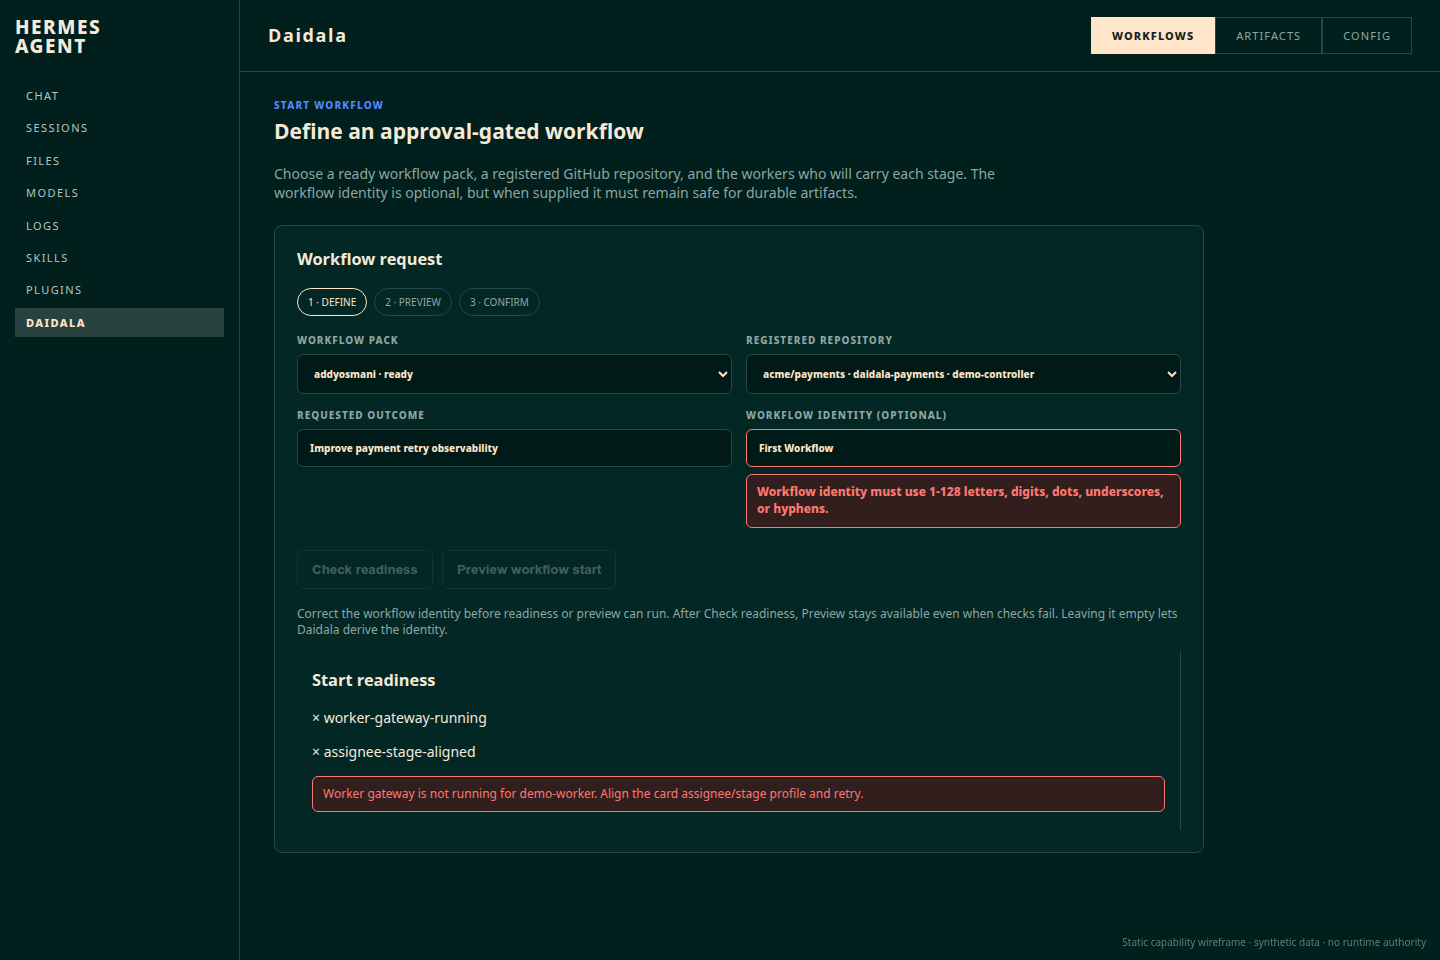
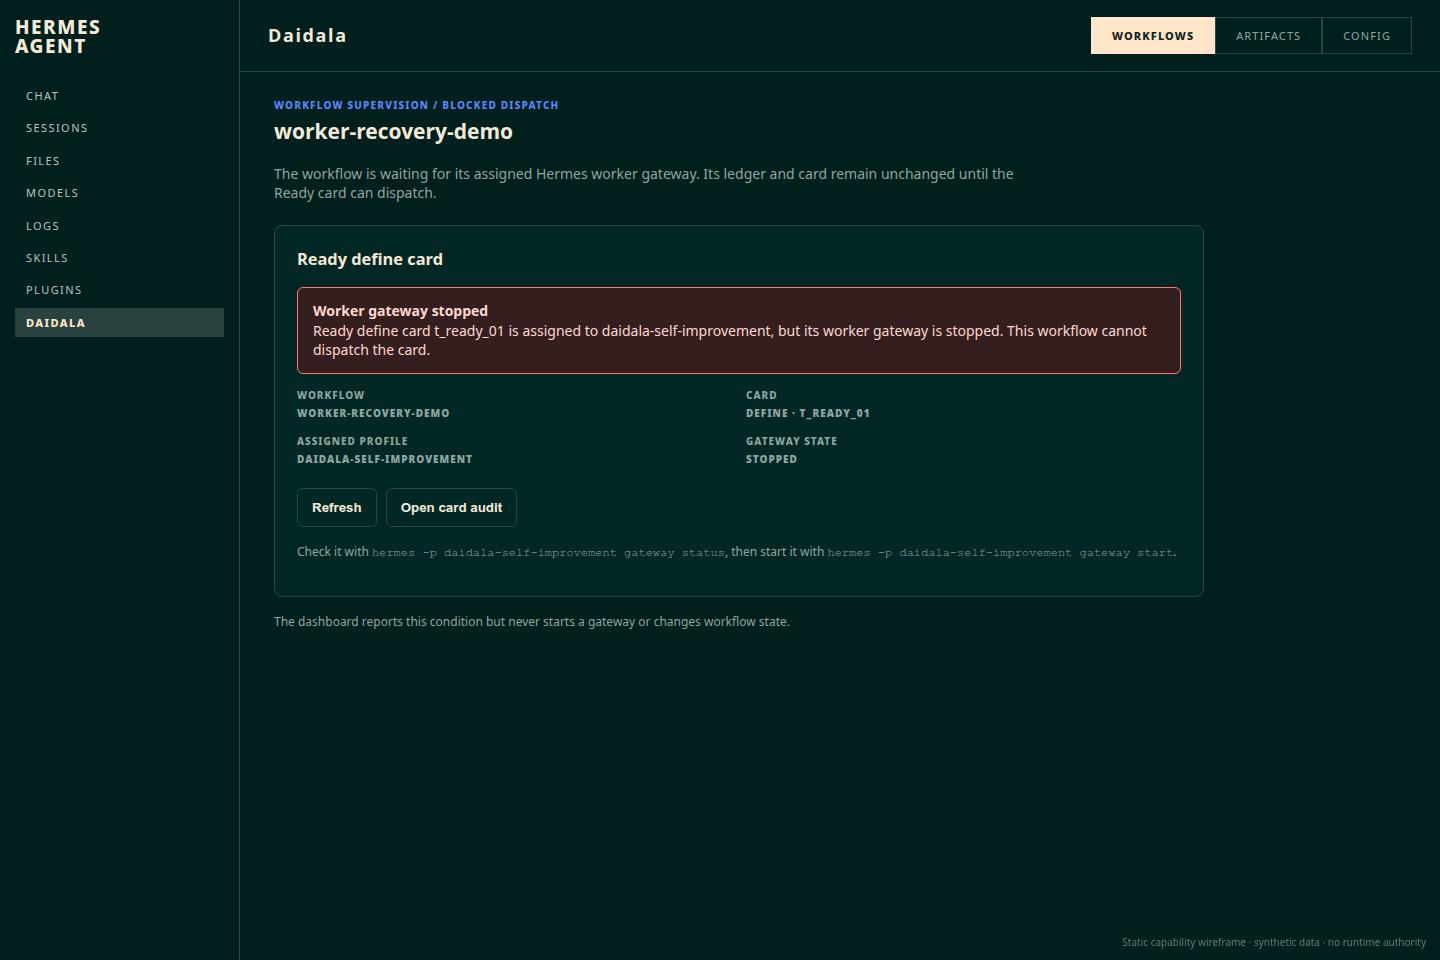
feat(dashboard): flag stalled worker cards
- Let operators see why a Ready workflow card cannot progress when its assigned worker gateway is down.
- Keep recovery explicit with the card, profile, gateway state, and safe status/start commands.
- Add the readiness payload, card-local alert, tests, operator docs, and wireframe.

This change turns an otherwise stalled Ready card into an actionable dashboard condition.

Affected files/components:
- dashboard/plugin_api.py
- dashboard/dist/index.js
- tests/test_dashboard_api.py
- tests/test_dashboard_assets.py
- docs/07-runbook.md
- docs/product/capabilities/CAP-0003-operator-dashboard.md
- docs/product/wireframes/generate.mjs
- docs/product/wireframes/html/CAP-0003-operator-dashboard.html
- docs/product/wireframes/exports/CAP-0003-operator-dashboard.png
- docs/changes/archive/CHG-0020-worker-gateway-readiness.md

Changed region(s): [[0.1875, 0.25, 0.8438, 0.5938], [0.1875, 0.5625, 0.8125, 0.8438], [0.1875, 0.0938, 0.7188, 0.2188]]

diff --git a/docs/product/wireframes/html/CAP-0003-operator-dashboard.html b/docs/product/wireframes/html/CAP-0003-operator-dashboard.html
@@ -1,4 +1,24 @@
 <!doctype html>
 <html lang="en"><head><meta charset="utf-8"><meta name="viewport" content="width=device-width, initial-scale=1"><title>CAP-0003 — Operator dashboard</title><style>
 :root{color-scheme:dark;--bg:#001f1d;--panel:#032725;--line:#244845;--text:#f4ead8;--muted:#8fa6a1;--cream:#ffe6ca;--amber:#ffc933;--red:#ff786f;--blue:#5688ff}*{box-sizing:border-box}body{margin:0;width:1440px;height:960px;overflow:hidden;background:var(--bg);color:var(--text);font:14px/1.4 Inter,ui-sans-serif,system-ui,sans-serif}.shell{display:grid;grid-template-columns:240px 1fr;height:960px}aside{padding:18px 15px;border-right:1px solid var(--line)}.brand{font-size:19px;font-weight:800;line-height:1;letter-spacing:.08em}nav{display:grid;gap:3px;margin-top:25px}nav div{padding:7px 11px;color:#b8c4c0;font-size:11px;letter-spacing:.13em;text-transform:uppercase}nav .active{background:#29413f;color:var(--cream);font-weight:800}main{min-width:0}header{height:72px;padding:18px 28px;display:flex;align-items:center;justify-content:space-between;border-bottom:1px solid var(--line)}h1,h2,h3,p{margin-top:0}h1{margin:0;font-size:18px;letter-spacing:.09em}.views{display:flex}.view{padding:10px 20px;border:1px solid var(--line);color:var(--muted);text-transform:uppercase;font-size:11px;letter-spacing:.1em}.view.active{color:#102321;background:var(--cream);border-color:var(--cream);font-weight:800}.workspace{padding:26px 34px}.eyebrow{margin-bottom:5px;color:var(--blue);font-size:10px;font-weight:800;letter-spacing:.12em;text-transform:uppercase}.intro{max-width:760px;color:var(--muted)}.wizard{max-width:930px;margin-top:22px;padding:22px;border:1px solid var(--line);border-radius:8px;background:var(--panel)}.steps{display:flex;gap:7px;margin:17px 0}.step{padding:6px 10px;border:1px solid var(--line);border-radius:999px;color:var(--muted);font-size:10px;text-transform:uppercase}.step.active{border-color:var(--cream);color:var(--cream)}.grid{display:grid;grid-template-columns:1fr 1fr;gap:14px}.field{display:block;color:var(--muted);font-size:10px;font-weight:800;letter-spacing:.1em;text-transform:uppercase}input,select{width:100%;margin-top:7px;padding:11px 12px;border:1px solid var(--line);border-radius:6px;background:#001a18;color:var(--cream);font:inherit}.invalid{border-color:var(--red)}.error{margin:7px 0 0;padding:9px 10px;border:1px solid var(--red);border-radius:6px;background:#321e1d;color:var(--red);font-size:12px;text-transform:none;letter-spacing:normal}.actions{display:flex;gap:9px;margin-top:22px}button{padding:11px 14px;border:1px solid var(--line);border-radius:6px;background:transparent;color:var(--text);font-weight:800}button:disabled{opacity:.45;color:var(--muted)}.note{margin-top:17px;color:var(--muted);font-size:12px}.annotation{position:fixed;right:14px;bottom:11px;color:#617b77;font-size:10px}</style></head>
-<body><div class="shell"><aside><div class="brand">HERMES<br>AGENT</div><nav><div>Chat</div><div>Sessions</div><div>Files</div><div>Models</div><div>Logs</div><div>Skills</div><div>Plugins</div><div class="active">Daidala</div></nav></aside><main><header><h1>Daidala</h1><div class="views"><div class="view active">Workflows</div><div class="view">Artifacts</div><div class="view">Config</div></div></header><section class="workspace"><p class="eyebrow">Start workflow</p><h2>Define an approval-gated workflow</h2><p class="intro">Choose a ready workflow pack, a registered GitHub repository, and the workers who will carry each stage. The workflow identity is optional, but when supplied it must remain safe for durable artifacts.</p><section class="wizard"><h3>Workflow request</h3><div class="steps"><span class="step active">1 · Define</span><span class="step">2 · Preview</span><span class="step">3 · Confirm</span></div><div class="grid"><label class="field">Workflow pack<select><option>addyosmani · ready</option></select></label><label class="field">Registered repository<select><option>acme/payments · daidala-payments · demo-controller</option></select></label><label class="field">Requested outcome<input value="Improve payment retry observability"></label><label class="field">Workflow identity (optional)<input class="invalid" value="First Workflow" aria-invalid="true" aria-describedby="workflow-identity-error"><p id="workflow-identity-error" class="error" role="alert">Workflow identity must use 1-128 letters, digits, dots, underscores, or hyphens.</p></label></div><div class="actions"><button disabled>Check readiness</button><button disabled>Preview workflow start</button></div><p class="note">Correct the workflow identity before readiness or preview can run. After Check readiness, Preview stays available even when checks fail. Leaving it empty lets Daidala derive the identity.</p><aside><h3>Start readiness</h3><p>× worker-gateway-running</p><p>× assignee-stage-aligned</p><p class="error">Worker gateway is not running for demo-worker. Align the card assignee/stage profile and retry.</p></aside></section></section></main></div><div class="annotation">Static capability wireframe · synthetic data · no runtime authority</div></body></html>
+<body><div class="shell"><aside><div class="brand">HERMES<br>AGENT</div><nav><div>Chat</div><div>Sessions</div><div>Files</div><div>Models</div><div>Logs</div><div>Skills</div><div>Plugins</div><div class="active">Daidala</div></nav></aside><main><header><h1>Daidala</h1><div class="views"><div class="view active">Workflows</div><div class="view">Artifacts</div><div class="view">Config</div></div></header><section class="workspace">
+  <p class="eyebrow">Workflow supervision / blocked dispatch</p>
+  <h2>worker-recovery-demo</h2>
+  <p class="intro">The workflow is waiting for its assigned Hermes worker gateway. Its ledger and card remain unchanged until the Ready card can dispatch.</p>
+  <section class="wizard">
+    <h3>Ready define card</h3>
+    <div role="alert" style="margin:14px 0;padding:13px 15px;border:1px solid var(--red);border-radius:6px;background:#351f1e;color:#ffd8d3">
+      <strong>Worker gateway stopped</strong><br>
+      Ready define card t_ready_01 is assigned to daidala-self-improvement, but its worker gateway is stopped. This workflow cannot dispatch the card.
+    </div>
+    <div class="grid">
+      <div class="field"><span style="display:block">Workflow</span><strong style="display:block;margin-top:4px">worker-recovery-demo</strong></div>
+      <div class="field"><span style="display:block">Card</span><strong style="display:block;margin-top:4px">define · t_ready_01</strong></div>
+      <div class="field"><span style="display:block">Assigned profile</span><strong style="display:block;margin-top:4px">daidala-self-improvement</strong></div>
+      <div class="field"><span style="display:block">Gateway state</span><strong style="display:block;margin-top:4px">stopped</strong></div>
+    </div>
+    <div class="actions"><button>Refresh</button><button>Open card audit</button></div>
+    <p class="note">Check it with <code>hermes -p daidala-self-improvement gateway status</code>, then start it with <code>hermes -p daidala-self-improvement gateway start</code>.</p>
+  </section>
+  <p class="note">The dashboard reports this condition but never starts a gateway or changes workflow state.</p>
+</section></main></div><div class="annotation">Static capability wireframe · synthetic data · no runtime authority</div></body></html>

diff --git a/dashboard/dist/index.js b/dashboard/dist/index.js
@@ -1403,7 +1403,7 @@
             }
 
   function renderWorkflowCard(
-    workflow, detail, decisions, approvalReview, reviewDecision, onApproved, onReviewDecided
+    workflow, detail, decisions, approvalReview, reviewDecision, dispatcher, onApproved, onReviewDecided
   ) {
     var summary = detail && detail.workflow ? detail.workflow : workflow;
     var policyRevision = summary.policy_revision;
@@ -1417,6 +1417,11 @@
       : [];
     var recommendations = detail && Array.isArray(detail.recommendations)
       ? detail.recommendations
+      : [];
+    var gatewayBlockedCards = dispatcher && Array.isArray(dispatcher.gateway_blocked_cards)
+      ? dispatcher.gateway_blocked_cards.filter(function (row) {
+        return row.workflow_id === summary.workflow_id;
+      })
       : [];
 
 
@@ -1438,6 +1443,22 @@
           summary.board_slug + " · " + summary.pack_name + " · policy " + policyRevision
         )
       ),
+      gatewayBlockedCards.map(function (blocker) {
+        return createElement(
+          "p",
+          {
+            key: blocker.task_id,
+            role: "alert",
+            className: "daidala-banner daidala-banner-error",
+            "data-testid": "daidala-workflow-gateway-error"
+          },
+          "Ready " + blocker.stage + " card " + blocker.task_id + " is assigned to "
+            + blocker.profile + ", but its worker gateway is " + blocker.gateway_status
+            + ". This workflow cannot dispatch the card. Check it with hermes -p "
+            + blocker.profile + " gateway status, then start it with hermes -p "
+            + blocker.profile + " gateway start."
+        );
+      }),
       createElement(
         "p",
         { className: "daidala-workflow-goal" },
@@ -4831,7 +4852,8 @@
               key: openWorkflowId,
               workflow: { workflow_id: openWorkflowId },
               decision: route.workflowId === openWorkflowId ? route.decision : null,
-              planRevision: route.workflowId === openWorkflowId ? route.planRevision : null
+              planRevision: route.workflowId === openWorkflowId ? route.planRevision : null,
+              dispatcher: dispatcher
             })
           )
         : null,
@@ -4865,7 +4887,8 @@
                 listedWorkflows.map(function (row) {
                   return createElement(WorkflowDetail, {
                     key: row.workflow_id,
-                    workflow: row
+                    workflow: row,
+                    dispatcher: dispatcher
                   });
                 })
               )
@@ -4911,6 +4934,7 @@
       decisionsState.snapshot,
       approvalState.snapshot,
       reviewState.snapshot,
+      props.dispatcher,
       function () {
         detailState.refresh();
         decisionsState.refresh();

diff --git a/tests/test_dashboard_api.py b/tests/test_dashboard_api.py
@@ -1525,8 +1525,74 @@ def test_dispatcher_readiness_skips_archived_only_workflow() -> None:
 
     assert result["assignee_mismatches"] == []
     assert result["blocked_profiles"] == []
+    assert result["gateway_blocked_cards"] == []
     assert probed == [["controller"]]
     assert "daidala-self-improvement" not in probed[0]
+
+
+def test_dispatcher_readiness_binds_non_running_gateway_to_ready_card() -> None:
+    from daidala.gateway import GatewayStatus
+    from daidala.kanban import KanbanCardStatus
+    from daidala.state import WorkflowStage
+
+    api = load_api()
+    ledger = types.SimpleNamespace(
+        workflow_id="gateway-stalled-workflow",
+        stage_profiles=(
+            types.SimpleNamespace(profile="demo-worker"),
+            types.SimpleNamespace(profile="review-worker"),
+        ),
+        profile_for=lambda stage: {
+            "define": "demo-worker",
+            "review": "review-worker",
+        }[stage.value],
+    )
+
+    class Service:
+        store = types.SimpleNamespace(list_all=lambda: (ledger,))
+
+        def combined_status(self, workflow_id: str) -> tuple[KanbanCardStatus, ...]:
+            assert workflow_id == ledger.workflow_id
+            return (
+                KanbanCardStatus(
+                    stage=WorkflowStage.DEFINE,
+                    task_id="t_ready",
+                    status="ready",
+                    assignee="demo-worker",
+                ),
+                KanbanCardStatus(
+                    stage=WorkflowStage.REVIEW,
+                    task_id="t_in_progress",
+                    status="in_progress",
+                    assignee="review-worker",
+                ),
+            )
+
+    probed: list[str] = []
+
+    def probe(profiles: list[str], _runner: object) -> tuple[GatewayStatus, ...]:
+        probed.extend(profiles)
+        return (
+            GatewayStatus(profile="demo-worker", status="stopped"),
+            GatewayStatus(profile="review-worker", status="unavailable"),
+        )
+
+    api.__dict__["service_factory"] = Service
+    api.__dict__["_valid_worker_profiles"] = lambda profiles: list(profiles)
+    api.__dict__["probe_profile_gateways"] = probe
+
+    result = api._dispatcher_readiness()
+
+    assert set(probed) == {"demo-worker", "review-worker"}
+    assert result["gateway_blocked_cards"] == [
+        {
+            "workflow_id": "gateway-stalled-workflow",
+            "task_id": "t_ready",
+            "stage": "define",
+            "profile": "demo-worker",
+            "gateway_status": "stopped",
+        }
+    ]
 
 
 def test_wizard_readiness_returns_informative_failed_checks() -> None:

diff --git a/dashboard/plugin_api.py b/dashboard/plugin_api.py
@@ -2351,10 +2351,11 @@ def _valid_worker_profiles(profiles: list[str]) -> list[str]:
 
 
 def _dispatcher_readiness() -> dict[str, Any]:
-    """Derive worker-gateway and assignee-alignment readiness."""
+    """Derive worker-gateway, Ready-card dispatch, and assignee readiness."""
 
     profiles: list[str] = []
     mismatches: list[dict[str, str]] = []
+    ready_cards: list[dict[str, str]] = []
     try:
         service = service_factory()
         ledgers = service.store.list_all()
@@ -2367,9 +2368,22 @@ def _dispatcher_readiness() -> dict[str, Any]:
             if not live:
                 continue
             profiles.extend(row.profile for row in ledger.stage_profiles)
+            profiles.extend(row.assignee for row in live)
             mismatches.extend(assignee_stage_mismatches(ledger, live))
+            ready_cards.extend(
+                {
+                    "workflow_id": ledger.workflow_id,
+                    "task_id": row.task_id,
+                    "stage": row.stage.value,
+                    "profile": row.assignee,
+                }
+                for row in live
+                if row.status == "ready"
+            )
     except StoreError:
         profiles = []
+        mismatches = []
+        ready_cards = []
     if not profiles:
         try:
             profiles = [
@@ -2379,11 +2393,18 @@ def _dispatcher_readiness() -> dict[str, Any]:
             profiles = []
     statuses = probe_profile_gateways(_valid_worker_profiles(profiles), _run_command)
     blocked = stopped_worker_gateways(statuses)
+    gateway_statuses = {row.profile: row.status for row in statuses}
+    gateway_blocked_cards = [
+        {**card, "gateway_status": gateway_statuses[card["profile"]]}
+        for card in ready_cards
+        if gateway_statuses.get(card["profile"]) in {"stopped", "unavailable"}
+    ]
     return {
         "gateways": [row.to_dict() for row in statuses],
         "ready": not blocked and not mismatches,
         "blocked_profiles": list(blocked),
         "assignee_mismatches": mismatches,
+        "gateway_blocked_cards": gateway_blocked_cards,
     }
 
 

diff --git a/tests/test_dashboard_assets.py b/tests/test_dashboard_assets.py
@@ -606,6 +606,22 @@ def test_bundle_renders_every_phase_three_state() -> None:
     assert "resolve_blocked_card" not in source
 
 
+def test_bundle_renders_gateway_errors_on_the_affected_workflow_card() -> None:
+    source = (DASHBOARD / "dist" / "index.js").read_text(encoding="utf-8")
+
+    required = (
+        "gateway_blocked_cards",
+        '"data-testid": "daidala-workflow-gateway-error"',
+        "Ready " + '" + blocker.stage + "' + " card ",
+        "This workflow cannot dispatch the card.",
+        "props.dispatcher",
+        "dispatcher: dispatcher",
+    )
+    for text in required:
+        assert text in source, f"missing card-local gateway warning: {text}"
+    assert "row.workflow_id === summary.workflow_id" in source
+
+
 def test_exact_plan_body_is_rendered_as_literal_text() -> None:
     source = (DASHBOARD / "dist" / "index.js").read_text(encoding="utf-8")
 

diff --git a/docs/changes/archive/CHG-0020-worker-gateway-readiness.md b/docs/changes/archive/CHG-0020-worker-gateway-readiness.md
@@ -1,0 +1,77 @@
+# CHG-0020: Worker gateway readiness
+
+**Status:** done
+**Source request:** Direct operator request: "I would like to have this check implemented in the "readiness" check in the workflows overview also while creating the workflow, that that corresponding/required/mandatory geteway have to be up and running -- if I'm right with my conclusio" Continued: also treat "Cannot record required skill activation: the active card is assigned to default but the workflow binds define to daidala-self-improvement. Align the card assignee/stage profile and retry." as a readiness constraint. Continued: "Regarding workflow 7af035cc-4a16-42c3-8f89-56d32be050e5: If the corresponding gateway with workflows's profile is not running, the state of the workflow will not change? If I'm true, I would like to have a error message withint the workflow overview regarding the associated workflow card like starting a new workflow"
+**Affected capabilities:** CAP-0001, CAP-0003
+**Created:** 2026-08-16
+
+## Outcome
+
+Start and dashboard readiness name the selected worker profiles' Hermes
+gateways as mandatory, and refuse a live card whose assignee does not match
+the workflow-bound stage profile. A non-running worker gateway or an assignee
+mismatch blocks start and appears as the next missing condition on Workflows.
+When a Ready card's assigned worker gateway is non-running, its workflow card
+also names the blocked card, profile, gateway state, and recovery command.
+
+## Scope
+
+- Shared start preflight refuses a graph when any selected stage assignee
+  gateway is not running, or when a live card assignee does not match the
+  bound stage profile.
+- Start readiness, Workflows overview guidance, workflow-card errors, and
+  on-demand setup analysis expose those path-free worker-gateway and
+  assignee-alignment facts.
+- Tests, CAP-0001/CAP-0003, the operator runbook, and the CAP-0003 wireframe
+  stay in the same vertical slice.
+
+## Phases
+
+| Phase | Status | Verification gate |
+|---|---|---|
+| Vertical slice | done | `python -m pytest tests/test_gateway.py tests/test_assignee_alignment.py tests/test_kanban.py tests/test_skills.py tests/test_dashboard_advice.py tests/test_dashboard_api.py tests/test_dashboard_assets.py -q` |
+| Informative start readiness | done | `python -m pytest tests/test_dashboard_assets.py tests/test_dashboard_api.py tests/test_skills.py tests/test_assignee_alignment.py tests/test_gateway.py -q` |
+| Ignore terminal cards | done | `python -m pytest tests/test_assignee_alignment.py tests/test_dashboard_api.py -q` |
+| Card-local dispatch warning | done | `python -m pytest tests/test_dashboard_api.py tests/test_dashboard_assets.py -q` |
+| Closeout | done | `node docs/product/wireframes/generate.mjs --render && python scripts/check_records.py . && python scripts/check_md_links.py . && python -m pytest tests/test_dashboard_assets.py tests/test_dashboard_api.py tests/test_skills.py tests/test_assignee_alignment.py tests/test_gateway.py -q && ruff check dashboard/plugin_api.py dashboard/dist/index.js daidala/service.py` |
+
+## Decisions
+
+- Require the selected worker profile gateways, not "any Hermes gateway".
+  Cards are assigned to those profiles; the operator-actionable command is
+  `hermes -p <worker> gateway start`.
+- Keep the probe off the five-second workflow poll. Overview uses a one-shot
+  readiness read; start uses the existing on-demand preflight.
+- Do not add a dashboard control that starts a gateway.
+- Card assignee versus bound stage profile is the same fail-closed rule
+  already used by skill activation. Reassigning a Ready card without updating
+  the ledger is a readiness blocker, not a workaround.
+- Archived and done cards are not live. Overview readiness ignores them for
+  assignee alignment and does not keep probing their bound worker gateways.
+- A card-local dispatch warning applies only to a Ready card. An in-progress
+  worker may still complete without a new gateway dispatch, while blocked and
+  terminal cards need different remediation.
+- The card-local warning uses the live card assignee because the Hermes
+  dispatcher claims that assignee's card. A separate existing warning names an
+  assignee/stage-profile mismatch.
+- Check readiness must run before Preview is available. The readiness result
+  is informative and does not block Preview. Start remains fail-closed.
+
+## Evidence
+
+- `python -m pytest tests/test_assignee_alignment.py tests/test_dashboard_api.py -q` passed.
+- `ruff check daidala/service.py dashboard/plugin_api.py tests/test_assignee_alignment.py tests/test_dashboard_api.py` passed.
+- `python -m pytest -q` passed for the earlier vertical slice.
+- `python scripts/check_records.py .` and `python scripts/check_md_links.py .` passed for the earlier vertical slice.
+- `python -m pytest tests/test_dashboard_api.py tests/test_dashboard_assets.py -q`,
+  `ruff check dashboard/plugin_api.py tests/test_dashboard_api.py
+  tests/test_dashboard_assets.py`, and both dashboard/wireframe Node syntax
+  checks passed for the card-local warning.
+- `node docs/product/wireframes/generate.mjs --render`,
+  `python scripts/check_records.py .`, and `python scripts/check_md_links.py .`
+  passed with the updated CAP-0003 wireframe.
+- Full repository verification passed: `source .venv/bin/activate && pytest`
+  (794 passed), `ruff check .`, `lefthook validate`, both pack manifest
+  validation commands, `.venv/bin/python -m build`, `.venv/bin/python -m twine
+  check dist/*`, and `.venv/bin/python scripts/check_release_contents.py .
+  --wheel dist/*.whl`.

diff --git a/docs/product/capabilities/CAP-0003-operator-dashboard.md b/docs/product/capabilities/CAP-0003-operator-dashboard.md
@@ -37,8 +37,12 @@ An authenticated operator can inspect workflow state and evidence, perform bound
   repository `<profile>`. Start states that implication and that later stages
   fail if those workers cannot use the working directory. Start and Workflows
   readiness require each selected worker profile's Hermes gateway to be
-  running. They also refuse or name a live card whose assignee does not match
-  the workflow-bound stage profile. Manage packs,
+  running. Workflows keeps that one-shot global readiness fact and renders an
+  accessible error on the affected workflow card when a Ready card's assigned
+  gateway is stopped or unavailable. The error names the stage/card, profile,
+  gateway state, and status/start commands; it never starts a gateway or
+  changes workflow state. Start and Workflows also refuse or name a live card
+  whose assignee does not match the workflow-bound stage profile. Manage packs,
   Register GitHub Repository,
   and Manage sources preserve the browser draft while moving visual and keyboard
   focus to their exact Config destination. A nonempty optional workflow identity

diff --git a/docs/07-runbook.md b/docs/07-runbook.md
@@ -162,7 +162,10 @@ hermes daidala status stable-workflow-id
 The gateway's Kanban dispatcher executes ready cards. Start and Workflows
 readiness require the selected worker profile gateway to be running
 (`hermes -p <worker> gateway start`) and refuse a live card whose assignee
-does not match the workflow-bound stage profile. The start command creates
+does not match the workflow-bound stage profile. When a Ready card's assigned
+gateway is stopped or unavailable, its Workflows card names the stage/card,
+profile, gateway state, and status/start commands. That warning is read-only:
+it does not change workflow state or start a gateway. The start command creates
 the graph; it does not start a second scheduler, daemon, or nested agent.
 
 ## Start a Git-pinned plan phase
